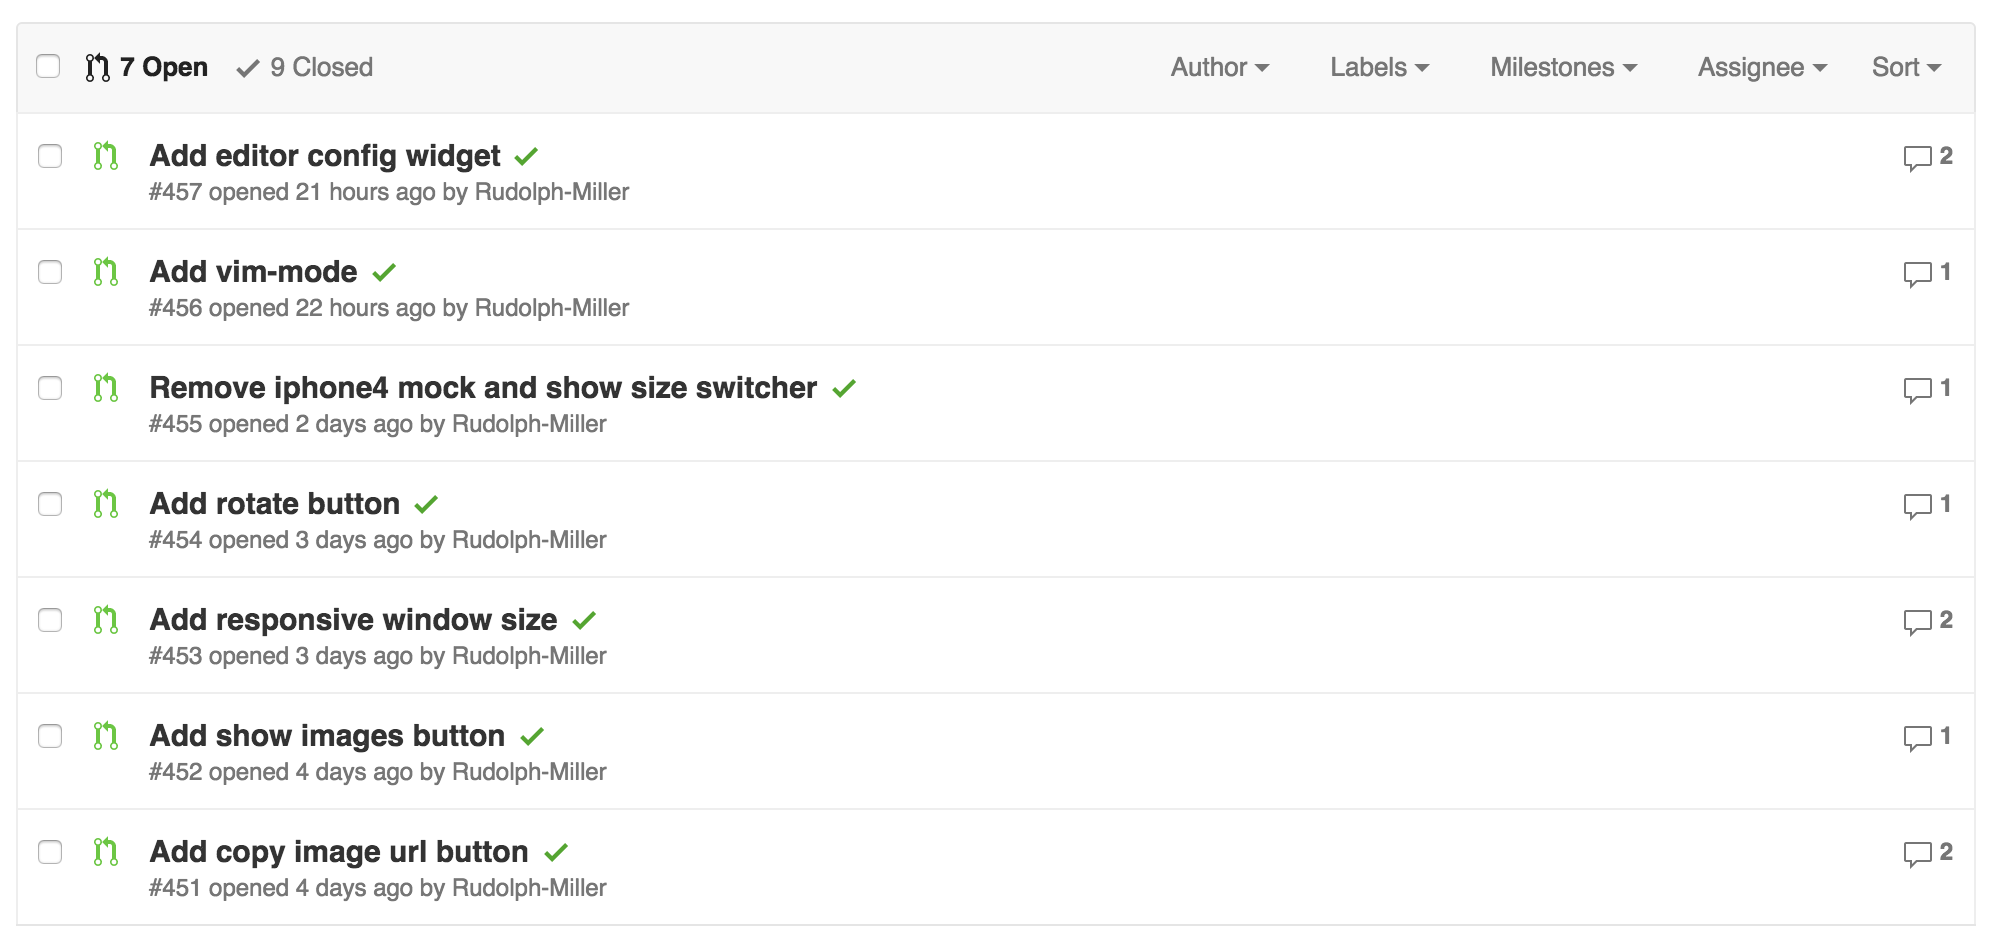
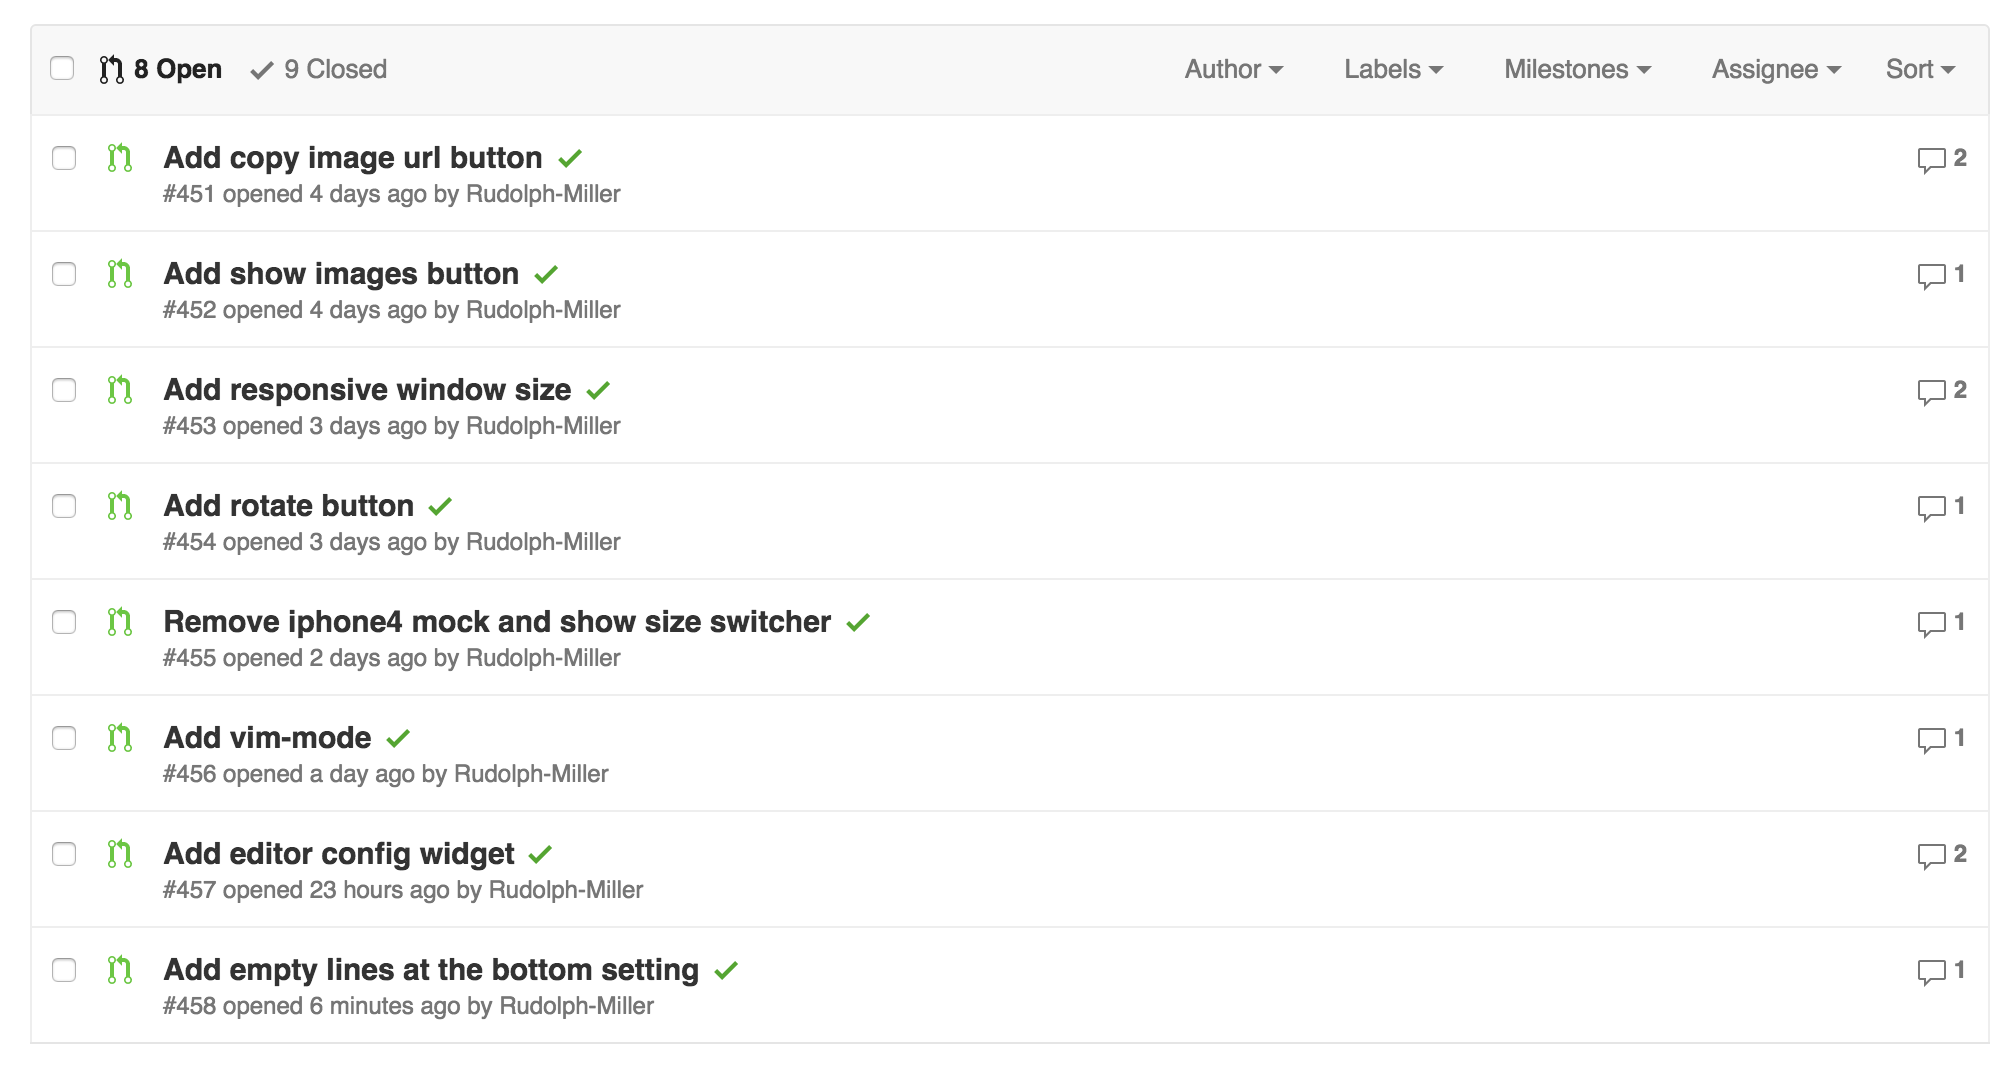
Add some

diff --git a/content/slide/kaizen-week-3.md b/content/slide/kaizen-week-3.md
@@ -56,7 +56,7 @@ layout: true
 
 ---
 
-background-image: url( /images/20160513/show-images-button.png )
+<img src="/images/20160513/show-images-button.png" width="100%">
 
 ---
 
@@ -106,3 +106,13 @@ background-image: url( /images/20160513/show-images-button.png )
 ---
 
 <img class="gif" width="100%" data-gif="/images/20160513/editor-config-widget.gif">
+
+---
+
+# Add empty lines at the bottom setting
+
+### 最下部の余白設定を追加
+
+---
+
+<img src="/images/20160513/empty-lines.png" width="100%">
